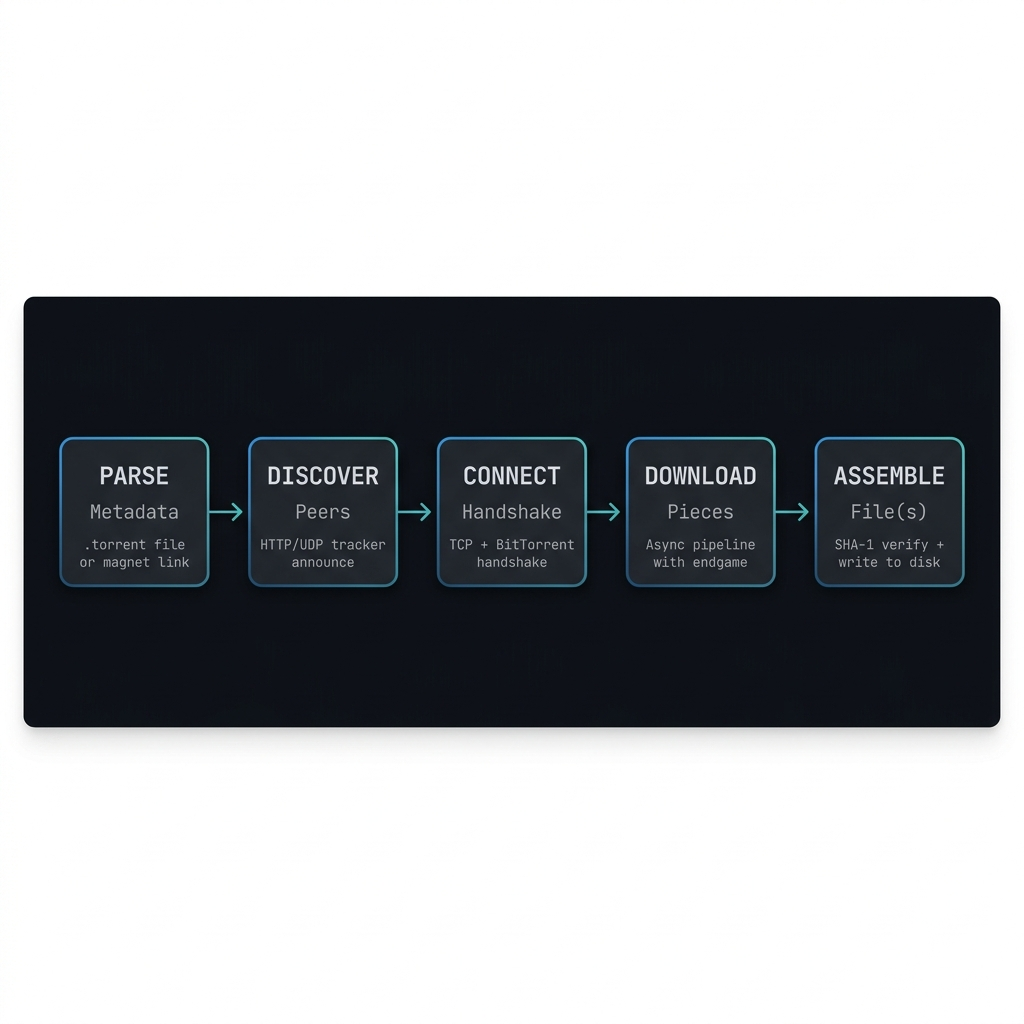
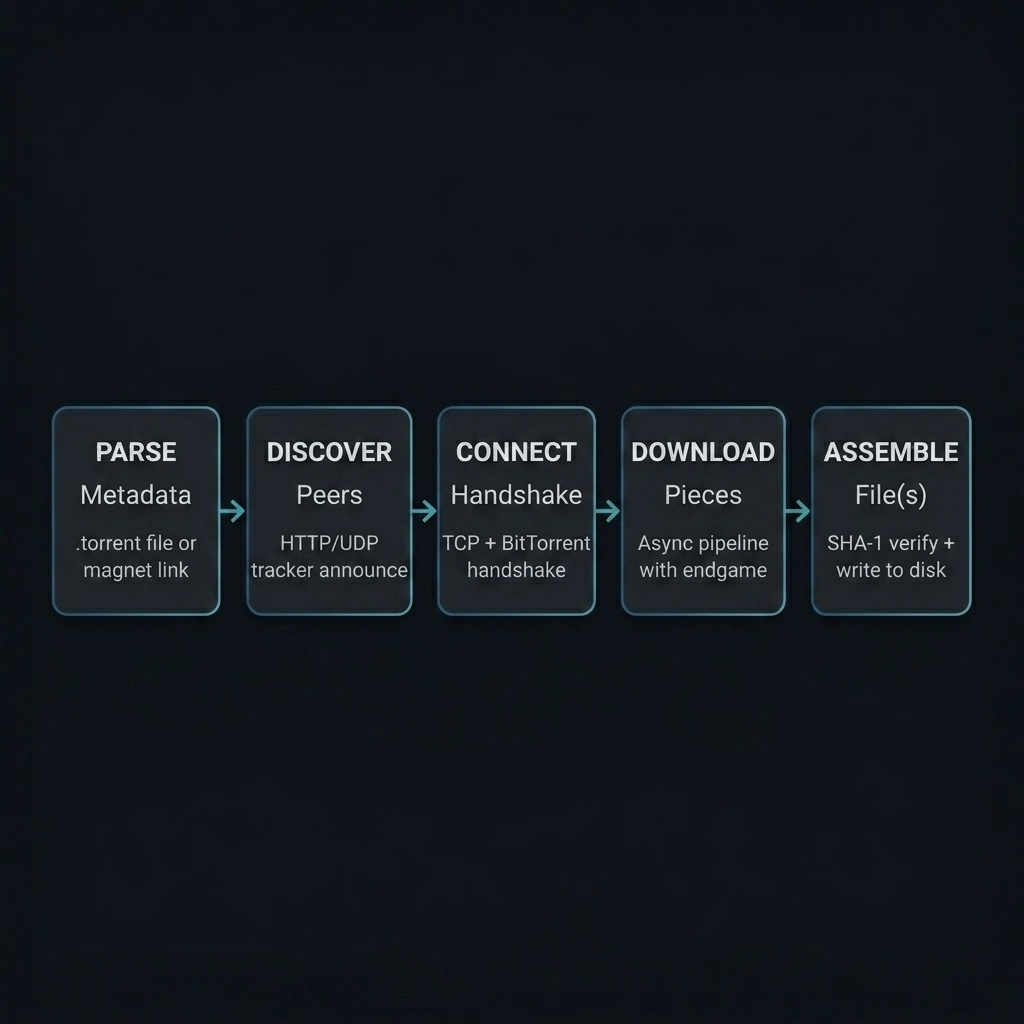
assets fix

diff --git a/README.md b/README.md
@@ -12,9 +12,9 @@ A minimal implementation of the BitTorrent protocol using raw sockets and asynci
 
 ---
 
-https://github.com/user-attachments/assets/nextor-demo
-
-*👆 Click to watch the terminal demo*
+<video src="assets/nextor%20demo%20github.mp4" width="700" autoplay loop muted playsinline>
+  Your browser does not support the video tag.
+</video>
 
 </div>
 
@@ -138,7 +138,7 @@ Top Peers in Swarm (Active: 45)
 ### The Download Lifecycle
 
 <p align="center">
-  <img src="https://raw.githubusercontent.com/shibajipal/nexTor/main/assets/download_lifecycle.png" alt="Download Lifecycle" width="800">
+  <img src="assets/download_lifecycle.png" alt="Download Lifecycle" width="800">
 </p>
 
 ---
@@ -199,7 +199,7 @@ Downloaded blocks are assembled into pieces, and pieces are concatenated into th
 ## Architecture
 
 <p align="center">
-  <img src="https://raw.githubusercontent.com/shibajipal/nexTor/main/assets/architecture.png" alt="Architecture" width="700">
+  <img src="assets/architecture.png" alt="Architecture" width="700">
 </p>
 
 <br>